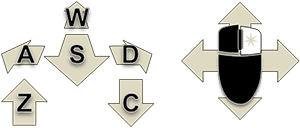
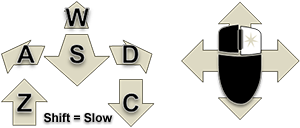
shift = slow
git-svn-id: https://g3d.svn.sourceforge.net/svnroot/g3d@1123 ef0428c2-0c16-0410-9f3f-d710ca1f8061

Changed region(s): [[0.12, 0.875, 0.39, 0.9688]]

diff --git a/G3D9/GLG3D.lib/source/FirstPersonManipulator.cpp b/G3D9/GLG3D.lib/source/FirstPersonManipulator.cpp
@@ -4,7 +4,7 @@
   \maintainer Morgan McGuire, morgan@cs.brown.edu
 
   \created 2002-07-28
-  \edited  2012-01-01
+  \edited  2012-01-02
 */
 
 #include "G3D/platform.h"
@@ -26,6 +26,7 @@ FirstPersonManipulator::FirstPersonManipulator(UserInput* ui) :
     m_flyDownKey('c'),
     m_maxMoveRate(10),
     m_maxTurnRate(20),
+    m_shiftSpeedMultiplier(0.15f),
     m_yaw(0),
     m_pitch(0),
     m_active(false),
@@ -233,11 +234,17 @@ void FirstPersonManipulator::onSimulation(RealTime rdt, SimTime sdt, SimTime idt
             dy = -1;
         }
 
+        float modifier = 1.0f;
+
+        if (m_userInput->keyDown(GKey::LSHIFT) || m_userInput->keyDown(GKey::RSHIFT)) {
+            modifier = m_shiftSpeedMultiplier;
+        }
+
         const Vector3& direction = Vector3(m_userInput->getX(), dy, m_userInput->getY()).directionOrZero();
 
         // Translate forward
         m_translation += (lookVector() * direction.z + frame().rightVector() * direction.x + frame().upVector() * direction.y) *
-            elapsedTime * m_maxMoveRate;
+            elapsedTime * m_maxMoveRate * modifier;
     }
     
     // Desired change in yaw and pitch

diff --git a/G3D9/GLG3D.lib/include/GLG3D/FirstPersonManipulator.h b/G3D9/GLG3D.lib/include/GLG3D/FirstPersonManipulator.h
@@ -70,6 +70,9 @@ private:
     
     /** rad/s */
     float                       m_maxTurnRate;
+
+    /** When the shift key is held down, multiply m_maxMoveRate by this.  Default is 0.15 */
+    float                       m_shiftSpeedMultiplier;
     
     float                       m_yaw;
     float                       m_pitch;
@@ -126,6 +129,15 @@ public:
 
     /** Invoke immediately before entering the main game loop. */
     void reset();
+
+    /** \copydoc m_shiftSpeedMultipler */
+    void setShiftSpeedMultipler(float m) {
+        m_shiftSpeedMultiplier = m;
+    }
+
+    float shiftSpeedMultipler() const {
+        return m_shiftSpeedMultiplier;
+    }
 
     /** Key for translating +Y */
     GKey flyUpKey() const {

diff --git a/G3D9/GLG3D.lib/source/CameraControlWindow.cpp b/G3D9/GLG3D.lib/source/CameraControlWindow.cpp
@@ -276,9 +276,9 @@ CameraControlWindow::CameraControlWindow(
     */
 
 #   ifdef G3D_OSX
-        m_manualHelpCaption = GuiText("W,A,S,D,Z,C keys and right mouse (or ctrl+left mouse) to move.", NULL, 10);
+        m_manualHelpCaption = GuiText("W,A,S,D,Z,C keys and right mouse (or ctrl+left mouse) to move; SHIFT = slow", NULL, 10);
 #   else
-        m_manualHelpCaption = GuiText("W,A,S,D,Z,C keys and right mouse to move.", NULL, 10);
+        m_manualHelpCaption = GuiText("W,A,S,D,Z,C keys and right mouse to move; SHIFT = slow", NULL, 10);
 #   endif
 
     m_autoHelpCaption = "";
